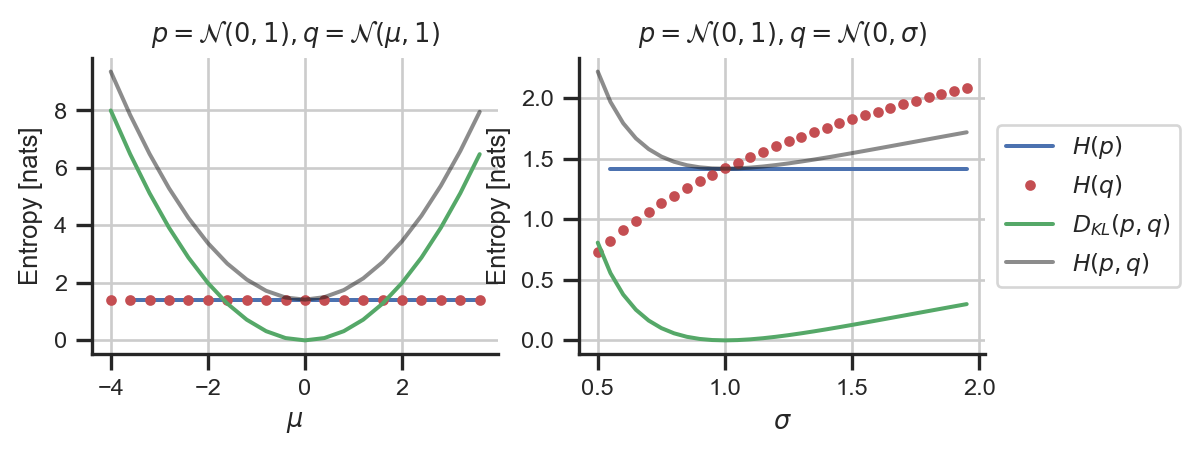
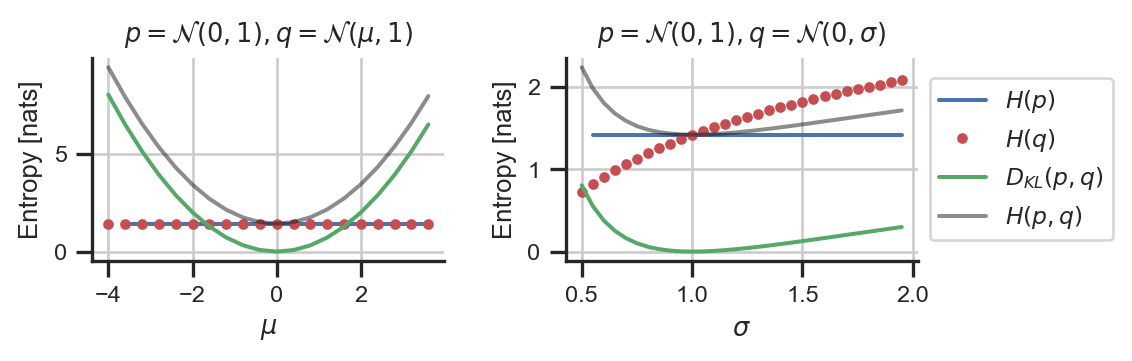
plots added to information

diff --git a/docs/posts/information.html b/docs/posts/information.html
@@ -515,10 +515,11 @@ E_{x \sim p}(-\log \frac{q(x)}{p(x)})~&amp;\geq -\log E_{x \sim p}(\frac{q(x)}{p
 <span id="cb1-62"><a href="#cb1-62" aria-hidden="true" tabindex="-1"></a>          title<span class="op">=</span><span class="vs">r'$p=\mathcal</span><span class="sc">{N}</span><span class="vs">(0,1), q=\mathcal</span><span class="sc">{N}</span><span class="vs">(0,\sigma)$'</span>)</span>
 <span id="cb1-63"><a href="#cb1-63" aria-hidden="true" tabindex="-1"></a>ax[<span class="dv">1</span>].grid()</span>
 <span id="cb1-64"><a href="#cb1-64" aria-hidden="true" tabindex="-1"></a>ax[<span class="dv">1</span>].legend(loc<span class="op">=</span><span class="st">'center left'</span>, bbox_to_anchor<span class="op">=</span>(<span class="dv">1</span>, <span class="fl">0.5</span>))</span>
-<span id="cb1-65"><a href="#cb1-65" aria-hidden="true" tabindex="-1"></a>plt.show()</span></code><button title="Copy to Clipboard" class="code-copy-button"><i class="bi"></i></button></pre></div>
+<span id="cb1-65"><a href="#cb1-65" aria-hidden="true" tabindex="-1"></a>plt.tight_layout()</span>
+<span id="cb1-66"><a href="#cb1-66" aria-hidden="true" tabindex="-1"></a>plt.show()</span></code><button title="Copy to Clipboard" class="code-copy-button"><i class="bi"></i></button></pre></div>
 </details>
 <div class="cell-output cell-output-display">
-<p><img src="information_files/figure-html/cell-2-output-1.png" width="600" height="227"></p>
+<p><img src="information_files/figure-html/cell-2-output-1.png" width="566" height="181"></p>
 </div>
 </div>
 </section>

diff --git a/docs/index.html b/docs/index.html
@@ -164,7 +164,7 @@ ul.task-list li input[type="checkbox"] {
 
 <div class="quarto-listing quarto-listing-container-default" id="listing-listing">
 <div class="list quarto-listing-default">
-<div class="quarto-post image-right" data-index="0" data-categories="fundamentals,math,machine learning" data-listing-date-sort="1689231600000" data-listing-file-modified-sort="1689736858344" data-listing-date-modified-sort="1689736858000" data-listing-reading-time-sort="7">
+<div class="quarto-post image-right" data-index="0" data-categories="fundamentals,math,machine learning" data-listing-date-sort="1689231600000" data-listing-file-modified-sort="1689737356031" data-listing-date-modified-sort="1689737356000" data-listing-reading-time-sort="7">
 <div class="thumbnail">
 <p><a href="./posts/information.html"> <p class="card-img-top"><img src="posts/information_files/figure-html/cell-2-output-1.png"  class="thumbnail-image card-img"/></p> </a></p>
 </div>
